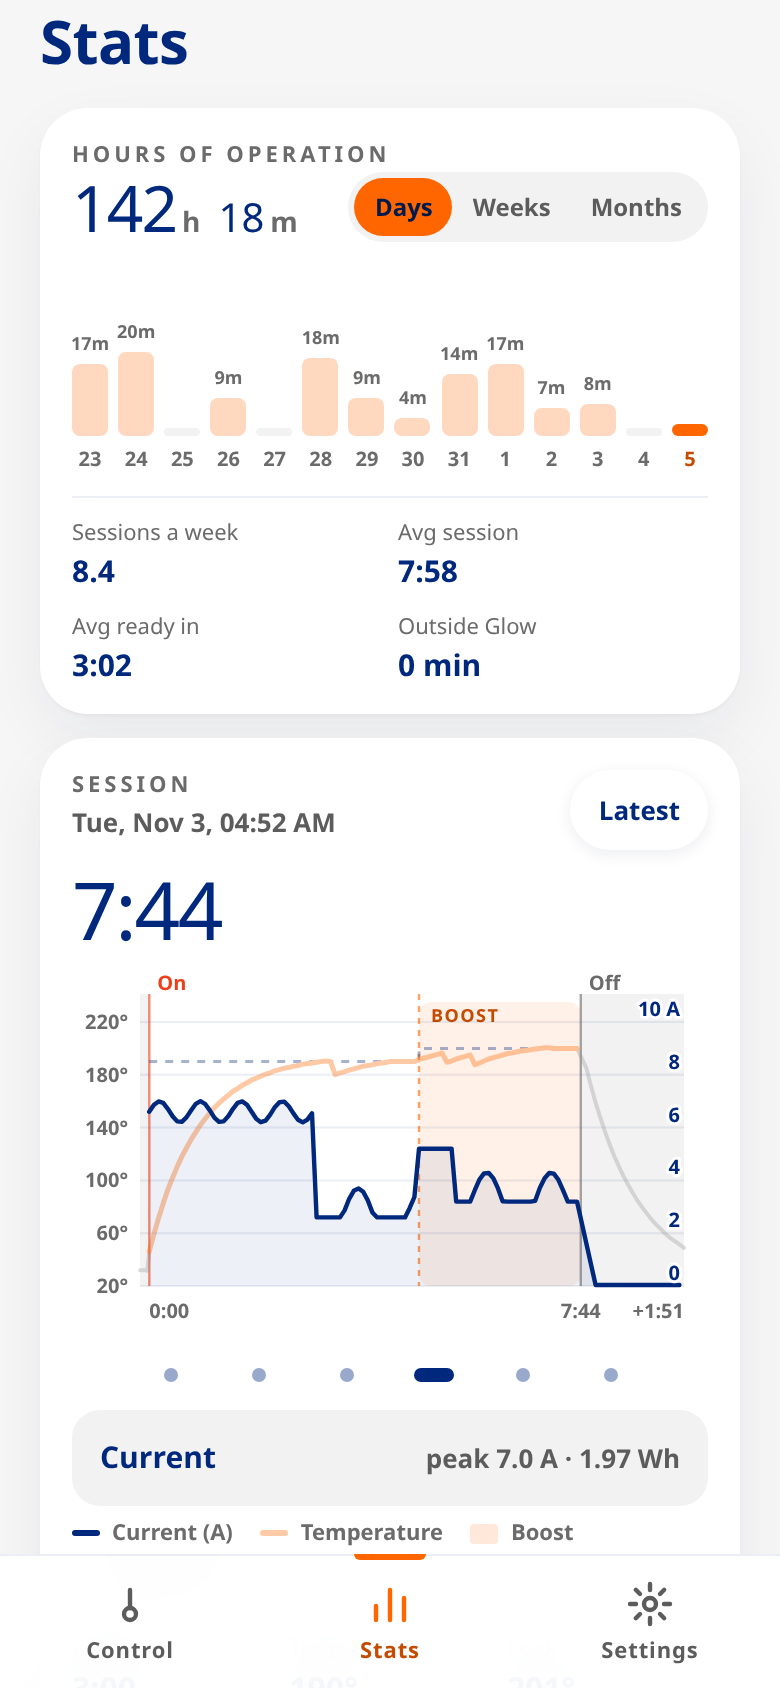
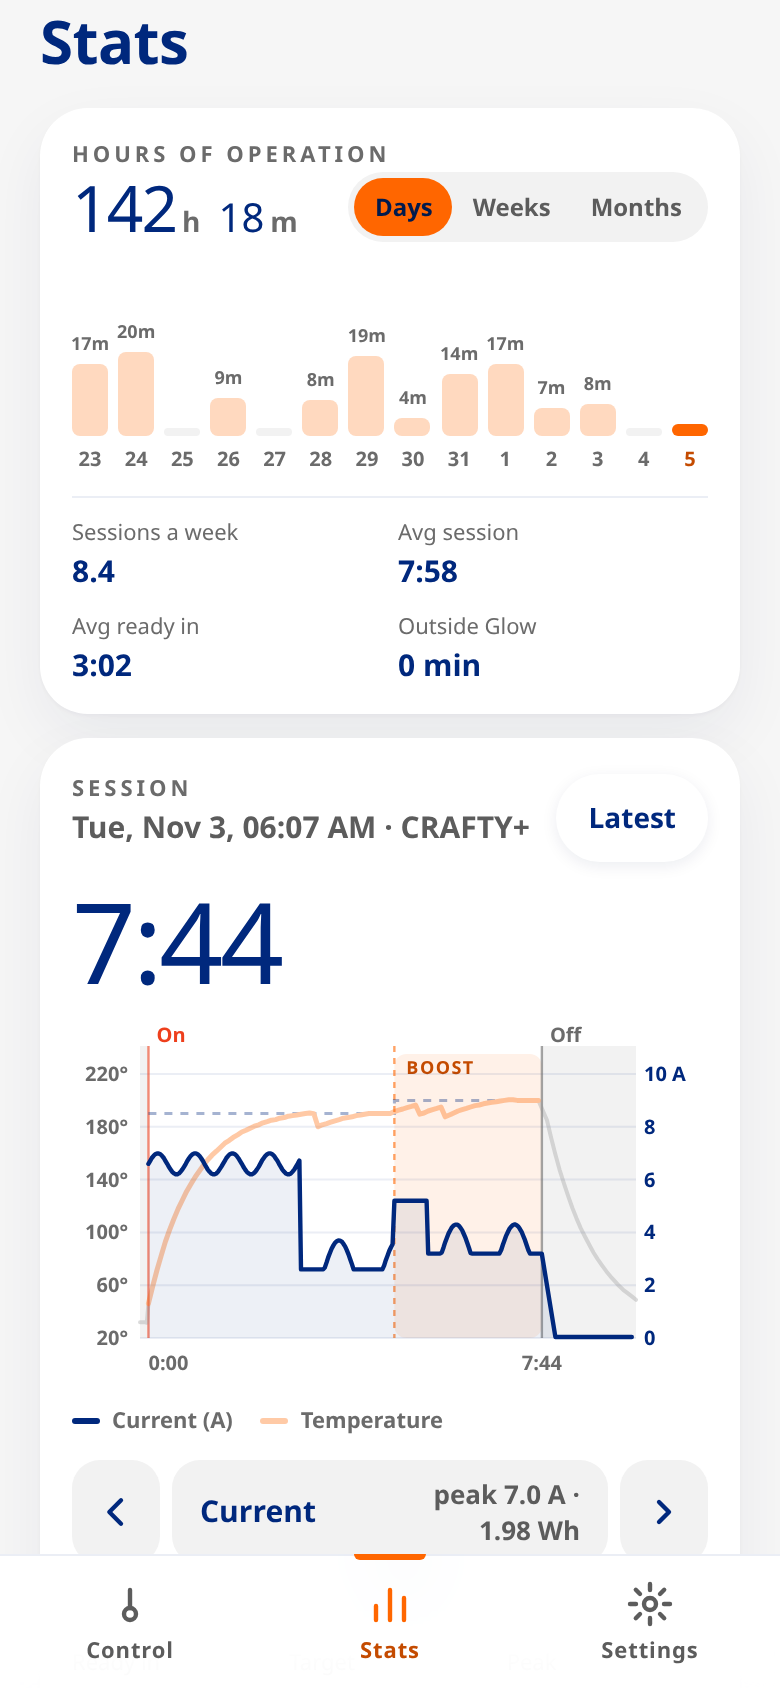
README: the session chart's stepper, VENTY switch and Now row, with a new Stats screenshot

diff --git a/README.md b/README.md
@@ -46,10 +46,11 @@ VENTY · VEAZY · CRAFTY · CRAFTY+ · VOLCANO HYBRID
 - 📊 **Stats.** A tab with each session as a chart (temperature against the target, Ready, boosts
   and the cool-down) and its facts, hours of operation by day, week or month, and a timeline of
   every session Glow saw, kept for good. Tapping Hours of operation on the dashboard or in Settings opens it.
-  Swipe the chart sideways, or tap the dots under it, to draw the battery over the temperature:
-  its level, and on a CRAFTY its voltage, current, power and temperature too. The line under it
-  gives the value now, for the whole session, or wherever you press and hold the chart, which
-  also shows every value at that moment. A CRAFTY session also shows where the battery
+  Tap the arrows under it (or swipe the chart sideways) to draw the battery over the temperature:
+  its level, and on a CRAFTY its voltage, current, power and temperature too; a VENTY or VEAZY
+  has a switch for its level. Between the arrows the value's name and its number: now, for the
+  whole session, or wherever you press and hold the chart, which also shows every value at that
+  moment. While a session runs, a row above the chart gives every value now. A CRAFTY session also shows where the battery
   went: the energy drawn (voltage × current), split into heat-up, holding, boost and after off,
   next to the device's own count of the capacity used.
 - 🌙 **Records in the background** (Android 12+, off until you switch it on in Settings). Android
